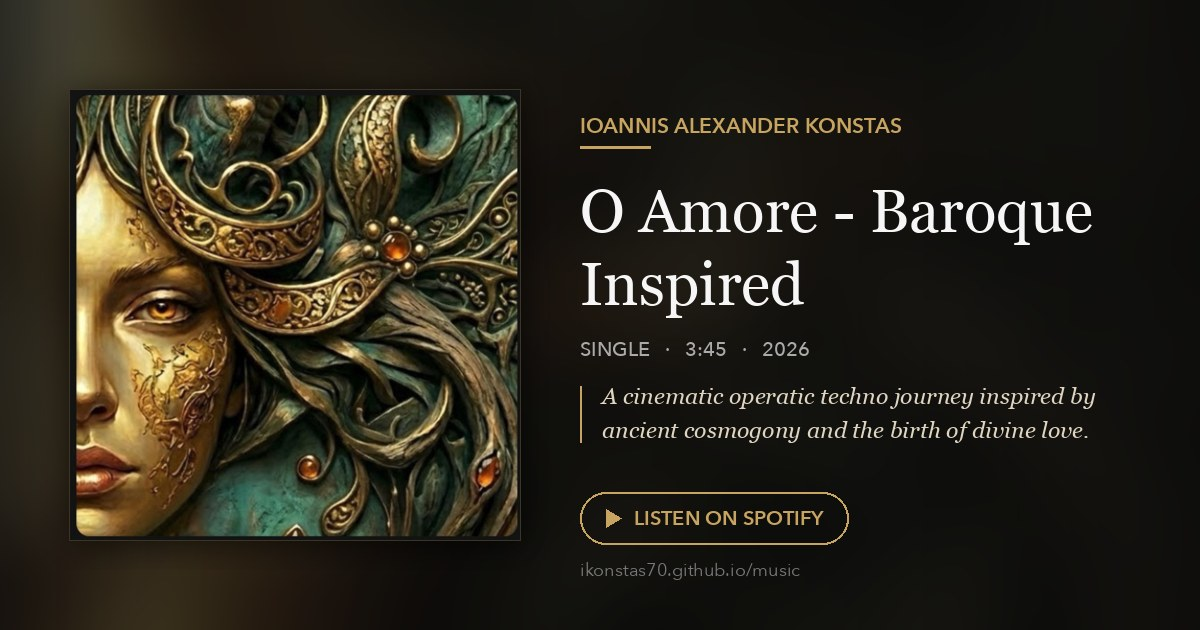
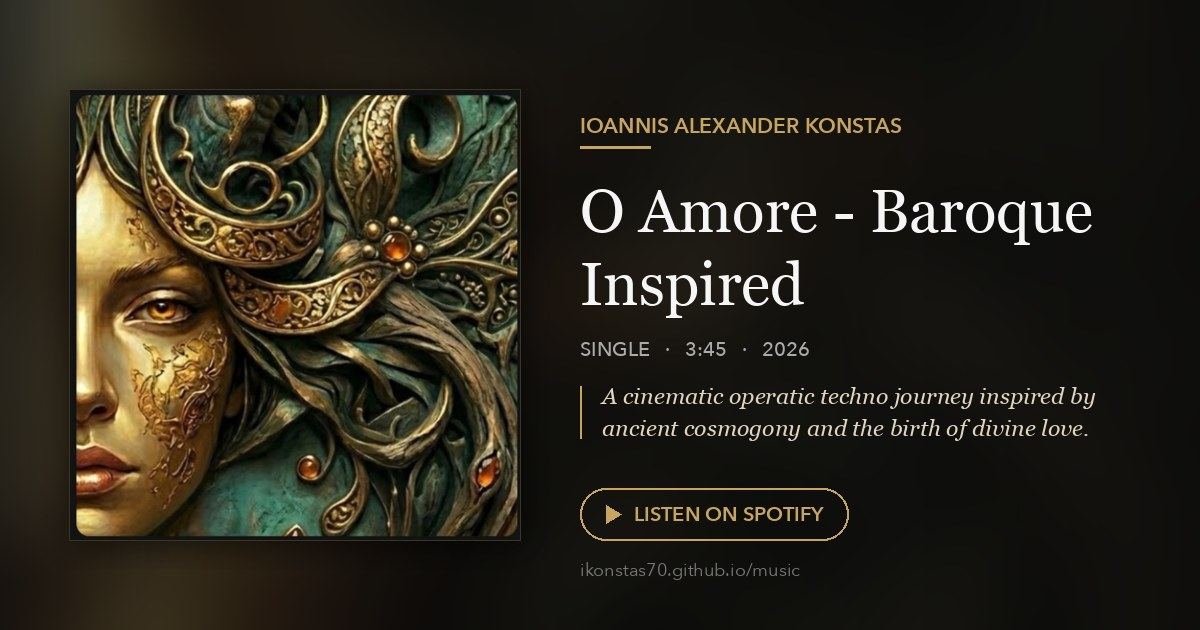
Add per-track "About the Track" notes and fix share-card text overflow
Extend build_track_pages.py's release-notes mechanism to support an
optional data-track-id attribute so a note can apply to a single track
on a multi-track release instead of every track (used for "Imperium"
on the 35-track "Stay True" album; the note lives in a hidden block in
the album page so the album's own visible content is unchanged).

Also fix share_card(): a long lead quote was silently truncated
mid-sentence at 4 lines. It now shrinks the font to fit up to 5 lines,
and only backs off to the last full sentence if it still doesn't fit.

Changed region(s): [[0.4625, 0.754, 0.7092, 0.8746], [0.4933, 0.6635, 0.925, 0.6937]]

diff --git a/tracks/imperium--stay-true.html b/tracks/imperium--stay-true.html
@@ -5,15 +5,15 @@
 <meta charset="utf-8">
 <meta name="viewport" content="width=device-width, initial-scale=1">
 <title>Imperium — Ioannis Alexander Konstas</title>
-<meta name="description" content="Imperium — track 10 from the Album “Stay True” by Ioannis Alexander Konstas. Stream on Spotify.">
+<meta name="description" content="Purgatory — from this passage emerges Imperium, not dominion over others, but mastery of the self. The final stage, where chaos is ordered, where pain is integrated, and where the soul reclaims authority over its own becoming. Imperium by Ioannis Alexander Konstas — stream on Spotify.">
 <meta name="author" content="Ioannis Alexander Konstas">
 
 <meta property="og:type" content="music.song">
 <meta property="og:url" content="https://ikonstas70.github.io/music/tracks/imperium--stay-true.html">
 <meta property="og:title" content="Imperium — Ioannis Alexander Konstas">
-<meta property="og:description" content="Imperium — track 10 from the Album “Stay True” by Ioannis Alexander Konstas. Stream on Spotify.">
-<meta property="og:image" content="https://ikonstas70.github.io/music/share/tracks/imperium--stay-true.jpg">
-<meta property="og:image:secure_url" content="https://ikonstas70.github.io/music/share/tracks/imperium--stay-true.jpg">
+<meta property="og:description" content="Purgatory — from this passage emerges Imperium, not dominion over others, but mastery of the self. The final stage, where chaos is ordered, where pain is integrated, and where the soul reclaims authority over its own becoming. Imperium by Ioannis Alexander Konstas — stream on Spotify.">
+<meta property="og:image" content="https://ikonstas70.github.io/music/share/tracks/imperium--stay-true.jpg?v=3">
+<meta property="og:image:secure_url" content="https://ikonstas70.github.io/music/share/tracks/imperium--stay-true.jpg?v=3">
 <meta property="og:image:type" content="image/jpeg">
 <meta property="og:image:width" content="1200">
 <meta property="og:image:height" content="630">
@@ -21,8 +21,8 @@
 <meta property="og:site_name" content="Ioannis Alexander Konstas — Music">
 <meta name="twitter:card" content="summary_large_image">
 <meta name="twitter:title" content="Imperium — Ioannis Alexander Konstas">
-<meta name="twitter:description" content="Imperium — track 10 from the Album “Stay True” by Ioannis Alexander Konstas. Stream on Spotify.">
-<meta name="twitter:image" content="https://ikonstas70.github.io/music/share/tracks/imperium--stay-true.jpg">
+<meta name="twitter:description" content="Purgatory — from this passage emerges Imperium, not dominion over others, but mastery of the self. The final stage, where chaos is ordered, where pain is integrated, and where the soul reclaims authority over its own becoming. Imperium by Ioannis Alexander Konstas — stream on Spotify.">
+<meta name="twitter:image" content="https://ikonstas70.github.io/music/share/tracks/imperium--stay-true.jpg?v=3">
 
 <link rel="stylesheet" href="/music/style.css">
 </head>
@@ -42,7 +42,12 @@
     <img class="album-cover" src="../covers/stay-true.jpg" alt="Stay True cover art">
     <h1 style="text-align:center">Imperium</h1>
     <p class="meta" style="text-align:center">Track 10 from the Album <a href="/music/albums/stay-true.html">Stay True</a> &middot; 5:25 &middot; 2026</p>
-
+<section class="release-notes" style="max-width:600px;margin:34px auto 40px;text-align:center;">
+    <div style="font-family:var(--sans);font-size:.72rem;letter-spacing:.32em;color:var(--accent);text-transform:uppercase;">About the Track</div>
+    <div style="width:56px;height:1px;background:var(--accent);margin:12px auto 22px;opacity:.8;"></div>
+    <p style="font-family:var(--serif);font-style:italic;font-size:1.12rem;line-height:1.85;color:hsl(0 0% 84%);margin:0;">Purgatory &mdash; from this passage emerges Imperium, not dominion over others, but mastery of the self. The final stage, where chaos is ordered, where pain is integrated, and where the soul reclaims authority over its own becoming.</p>
+    <div style="width:56px;height:1px;background:var(--accent);margin:26px auto 0;opacity:.8;"></div>
+  </section>
     <div class="spotify-embed">
       <iframe src="https://open.spotify.com/embed/track/6HTz2Iiv5giYJLmLUiG0hU?utm_source=oembed" width="100%" height="352" frameborder="0" allowfullscreen="" allow="autoplay; clipboard-write; encrypted-media; fullscreen; picture-in-picture" loading="lazy" title="Spotify Embed: Imperium"></iframe>
     </div>

diff --git a/tracks/o-amore-baroque-inspired--nome-di-afrodite.html b/tracks/o-amore-baroque-inspired--nome-di-afrodite.html
@@ -42,14 +42,13 @@
     <img class="album-cover" src="../covers/nome-di-afrodite.jpg" alt="Nome di Afrodite cover art">
     <h1 style="text-align:center">O Amore - Baroque Inspired</h1>
     <p class="meta" style="text-align:center">Single <a href="/music/albums/nome-di-afrodite.html">Nome di Afrodite</a> &middot; 3:45 &middot; 2026</p>
-    <section class="release-notes" style="max-width:600px;margin:34px auto 40px;text-align:center;">
+<section class="release-notes" style="max-width:600px;margin:34px auto 40px;text-align:center;">
       <div style="font-family:var(--sans);font-size:.72rem;letter-spacing:.32em;color:var(--accent);text-transform:uppercase;">About the Release</div>
       <div style="width:56px;height:1px;background:var(--accent);margin:12px auto 22px;opacity:.8;"></div>
       <p style="font-family:var(--serif);font-style:italic;font-size:1.12rem;line-height:1.85;color:hsl(0 0% 84%);margin:0;">A cinematic operatic techno journey inspired by ancient cosmogony and the birth of divine love.</p>
       <p style="font-family:var(--serif);font-size:1.02rem;line-height:1.85;color:var(--fg-dim);margin:18px 0 0;"><span style="color:var(--accent);letter-spacing:.06em;">&ldquo;O AMORE (Afrodite)&rdquo;</span> merges mythological poetry, hypnotic melodic techno, and soaring operatic vocals into a ritualistic soundscape where Chaos, Earth, and Love emerge before the gods themselves.</p>
       <div style="width:56px;height:1px;background:var(--accent);margin:26px auto 0;opacity:.8;"></div>
     </section>
-
     <div class="spotify-embed">
       <iframe src="https://open.spotify.com/embed/track/3Ac9mEYf9P84GvyoH7916W?utm_source=oembed" width="100%" height="352" frameborder="0" allowfullscreen="" allow="autoplay; clipboard-write; encrypted-media; fullscreen; picture-in-picture" loading="lazy" title="Spotify Embed: O Amore - Baroque Inspired"></iframe>
     </div>

diff --git a/tracks/o-amore-nome-di-afrodite.html b/tracks/o-amore-nome-di-afrodite.html
@@ -42,14 +42,13 @@
     <img class="album-cover" src="../covers/nome-di-afrodite.jpg" alt="Nome di Afrodite cover art">
     <h1 style="text-align:center">O Amore (Nome di Afrodite)</h1>
     <p class="meta" style="text-align:center">Single <a href="/music/albums/nome-di-afrodite.html">Nome di Afrodite</a> &middot; 4:48 &middot; 2026</p>
-    <section class="release-notes" style="max-width:600px;margin:34px auto 40px;text-align:center;">
+<section class="release-notes" style="max-width:600px;margin:34px auto 40px;text-align:center;">
       <div style="font-family:var(--sans);font-size:.72rem;letter-spacing:.32em;color:var(--accent);text-transform:uppercase;">About the Release</div>
       <div style="width:56px;height:1px;background:var(--accent);margin:12px auto 22px;opacity:.8;"></div>
       <p style="font-family:var(--serif);font-style:italic;font-size:1.12rem;line-height:1.85;color:hsl(0 0% 84%);margin:0;">A cinematic operatic techno journey inspired by ancient cosmogony and the birth of divine love.</p>
       <p style="font-family:var(--serif);font-size:1.02rem;line-height:1.85;color:var(--fg-dim);margin:18px 0 0;"><span style="color:var(--accent);letter-spacing:.06em;">&ldquo;O AMORE (Afrodite)&rdquo;</span> merges mythological poetry, hypnotic melodic techno, and soaring operatic vocals into a ritualistic soundscape where Chaos, Earth, and Love emerge before the gods themselves.</p>
       <div style="width:56px;height:1px;background:var(--accent);margin:26px auto 0;opacity:.8;"></div>
     </section>
-
     <div class="spotify-embed">
       <iframe src="https://open.spotify.com/embed/track/26nkyZV3t8dYWKQ7Qx9ZvK?utm_source=oembed" width="100%" height="352" frameborder="0" allowfullscreen="" allow="autoplay; clipboard-write; encrypted-media; fullscreen; picture-in-picture" loading="lazy" title="Spotify Embed: O Amore (Nome di Afrodite)"></iframe>
     </div>

diff --git a/albums/stay-true.html b/albums/stay-true.html
@@ -106,6 +106,18 @@
     <p>&copy; 2026 Ioannis Konstas &middot; <a href="https://github.com/ikonstas70">github.com/ikonstas70</a></p>
   </footer>
 </div>
+
+<!-- Per-track note for "Imperium" only (not shown on this page — read by tools/build_track_pages.py
+     and rendered on that track's own share page). Kept hidden here so this album page's visible
+     content is unchanged. -->
+<div hidden>
+  <section class="release-notes" data-track-id="6HTz2Iiv5giYJLmLUiG0hU" style="max-width:600px;margin:34px auto 40px;text-align:center;">
+    <div style="font-family:var(--sans);font-size:.72rem;letter-spacing:.32em;color:var(--accent);text-transform:uppercase;">About the Track</div>
+    <div style="width:56px;height:1px;background:var(--accent);margin:12px auto 22px;opacity:.8;"></div>
+    <p style="font-family:var(--serif);font-style:italic;font-size:1.12rem;line-height:1.85;color:hsl(0 0% 84%);margin:0;">Purgatory &mdash; from this passage emerges Imperium, not dominion over others, but mastery of the self. The final stage, where chaos is ordered, where pain is integrated, and where the soul reclaims authority over its own becoming.</p>
+    <div style="width:56px;height:1px;background:var(--accent);margin:26px auto 0;opacity:.8;"></div>
+  </section>
+</div>
 <script src="/music/music.js"></script>
 </body>
 </html>

diff --git a/tools/build_track_pages.py b/tools/build_track_pages.py
@@ -83,13 +83,24 @@ def share_card(title, meta, cover_path, out_path, lead=""):
         y += int(s * 1.22)
     y += 14
     d.text((x, y), meta.upper().replace("·", "  ·  "), font=avenir(5, 20), fill=DIM)
-    if lead:                                             # release description, italic, under the details line
-        lead_font = ImageFont.truetype(GEORGIA.replace("Georgia.ttf", "Georgia Italic.ttf"), 23)
+    if lead:                                             # release/track description, italic, under the details line
+        max_lines = 5
+        for lsize in (23, 21, 19, 18, 17):                # shrink to fit rather than cut the quote off mid-sentence
+            lead_font = ImageFont.truetype(GEORGIA.replace("Georgia.ttf", "Georgia Italic.ttf"), lsize)
+            lh = int(lsize * 1.42)
+            lines = wrap(d, lead, lead_font, max_width - 24)
+            if len(lines) <= max_lines:
+                break
+        else:
+            lines = lines[:max_lines]
+            joined = " ".join(lines)
+            cut = max(joined.rfind(". "), joined.rfind("! "), joined.rfind("? "))   # back off to a full sentence
+            lines = wrap(d, joined[:cut + 1] if cut > 0 else joined, lead_font, max_width - 24)
         y += 46
         top = y
-        for line in wrap(d, lead, lead_font, max_width - 24)[:4]:
+        for line in lines:
             d.text((x + 22, y), line, font=lead_font, fill=(222, 212, 192))
-            y += 34
+            y += lh
         d.rectangle([x, top + 4, x + 1, y - 8], fill=GOLD)   # thin gold rule beside the quote
         y -= 18
 
@@ -180,11 +191,21 @@ def releases():
         cover_file = re.search(r'src="\.\./covers/([^"]+)"', page)
         cover_file = cover_file.group(1) if cover_file else None
         tracks = [(int(n), tid, html.unescape(t), dur) for n, tid, t, dur in TRACK_RE.findall(page)]
-        notes = re.search(r'\n\s*<section class="release-notes".*?</section>\n', page, re.S)      # optional "About the Release"
-        lead = re.search(r'<section class="release-notes".*?<p[^>]*>(.*?)</p>', page, re.S)
+        # optional "About the Release" / "About the Track" sections. Untagged -> applies to every
+        # track on the release. Tagged with data-track-id="<spotify id>" -> that one track only
+        # (used for a compilation where the note is about a single song, not the whole release).
+        release_notes, release_lead, notes_by_track = "", "", {}
+        for m in re.finditer(r'<section class="release-notes"([^>]*)>.*?</section>', page, re.S):
+            attrs, block = m.group(1), m.group(0)
+            lead_m = re.search(r'<p[^>]*>(.*?)</p>', block, re.S)
+            block_lead = html.unescape(re.sub(r"<[^>]+>", "", lead_m.group(1))).strip() if lead_m else ""
+            tid_m = re.search(r'data-track-id="([^"]+)"', attrs)
+            if tid_m:
+                notes_by_track[tid_m.group(1)] = (re.sub(r'\s*data-track-id="[^"]+"', "", block), block_lead)
+            else:
+                release_notes, release_lead = block, block_lead
         yield dict(slug=album_slug, title=album, kind=kind, year=year, cover_file=cover_file, tracks=tracks,
-                   notes=notes.group(0).lstrip("\n") if notes else "",
-                   lead=html.unescape(re.sub(r"<[^>]+>", "", lead.group(1))).strip() if lead else "")
+                   notes=release_notes, lead=release_lead, notes_by_track=notes_by_track)
 
 
 def main():
@@ -209,14 +230,15 @@ def main():
                 meta_html = " &middot; ".join(x for x in (f'Track {num} from the {r["kind"]} <a href="/music/albums/{r["slug"]}.html">{html.escape(r["title"])}</a>', dur, r["year"]) if x)
                 back_html = f'<a href="/music/albums/{r["slug"]}.html">&larr; The full {r["kind"]}: {html.escape(r["title"])}</a>'
                 desc = f"{title} — track {num} from the {r['kind']} “{r['title']}” by Ioannis Alexander Konstas. Stream on Spotify."
-            if r["lead"]:
-                desc = f"{r['lead']} {title} by Ioannis Alexander Konstas — stream on Spotify."
-            share_card(title, card_meta, cover_path, os.path.join(ROOT, "share", "tracks", slug + ".jpg"), r["lead"])
+            notes_html, lead = r["notes_by_track"].get(track_id, (r["notes"], r["lead"]))
+            if lead:
+                desc = f"{lead} {title} by Ioannis Alexander Konstas — stream on Spotify."
+            share_card(title, card_meta, cover_path, os.path.join(ROOT, "share", "tracks", slug + ".jpg"), lead)
             e = html.escape
             page = PAGE.format(
-                url=f"{SITE}/tracks/{slug}.html", img=f"{SITE}/share/tracks/{slug}.jpg" + ("?v=3" if r["lead"] else ""), artist=ARTIST_URL,
+                url=f"{SITE}/tracks/{slug}.html", img=f"{SITE}/share/tracks/{slug}.jpg" + ("?v=3" if lead else ""), artist=ARTIST_URL,
                 title=e(title), title_full=e(f"{title} — Ioannis Alexander Konstas"), desc=e(desc), album=e(r["title"]),
-                cover_file=cover_file, meta_html=meta_html, track_id=track_id, back_html=back_html, notes_html=r["notes"])
+                cover_file=cover_file, meta_html=meta_html, track_id=track_id, back_html=back_html, notes_html=notes_html)
             with open(os.path.join(ROOT, "tracks", slug + ".html"), "w", encoding="utf-8") as f:
                 f.write(page)
             built.append((slug, title, r["title"]))
